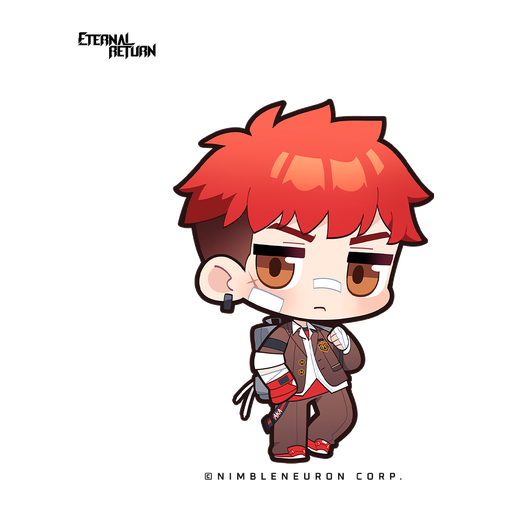
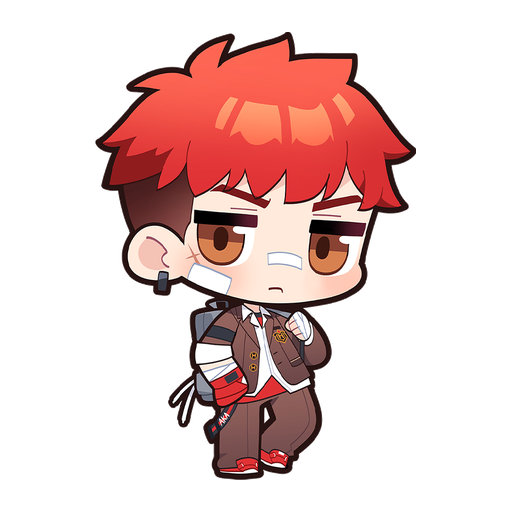
feat: 캐릭터 배경 투명화

diff --git a/scripts/prepare_unit_assets.py b/scripts/prepare_unit_assets.py
@@ -39,8 +39,42 @@ def remove_edge_connected_white(image: Image.Image) -> Image.Image:
         if y + 1 < height:
             stack.append((x, y + 1))
     return rgba
+
+
+def keep_largest_component(image: Image.Image) -> Image.Image:
+    """로고·문구·장식선을 제외하기 위해 가장 큰 캐릭터 성분만 남긴다."""
+    width, height = image.size
+    alpha = image.getchannel("A")
+    pixels = alpha.load()
+    visited = bytearray(width * height)
+    largest: list[tuple[int, int]] = []
+    for start_y in range(height):
+        for start_x in range(width):
+            start = start_y * width + start_x
+            if visited[start] or pixels[start_x, start_y] == 0:
+                continue
+            component = []
+            stack = [(start_x, start_y)]
+            visited[start] = 1
+            while stack:
+                x, y = stack.pop()
+                component.append((x, y))
+                for nx, ny in ((x - 1, y), (x + 1, y), (x, y - 1), (x, y + 1)):
+                    index = ny * width + nx
+                    if 0 <= nx < width and 0 <= ny < height and not visited[index] and pixels[nx, ny] > 0:
+                        visited[index] = 1
+                        stack.append((nx, ny))
+            if len(component) > len(largest):
+                largest = component
+    retained = set(largest)
+    rgba = image.load()
+    for y in range(height):
+        for x in range(width):
+            if (x, y) not in retained:
+                rgba[x, y] = (*rgba[x, y][:3], 0)
+    return image
 for name, filename in SOURCES.items():
-    image = remove_edge_connected_white(Image.open(ROOT / "reference" / "SD Characters" / filename))
+    image = keep_largest_component(remove_edge_connected_white(Image.open(ROOT / "reference" / "SD Characters" / filename)))
     alpha = image.getchannel("A")
     box = alpha.getbbox()
     if box:
